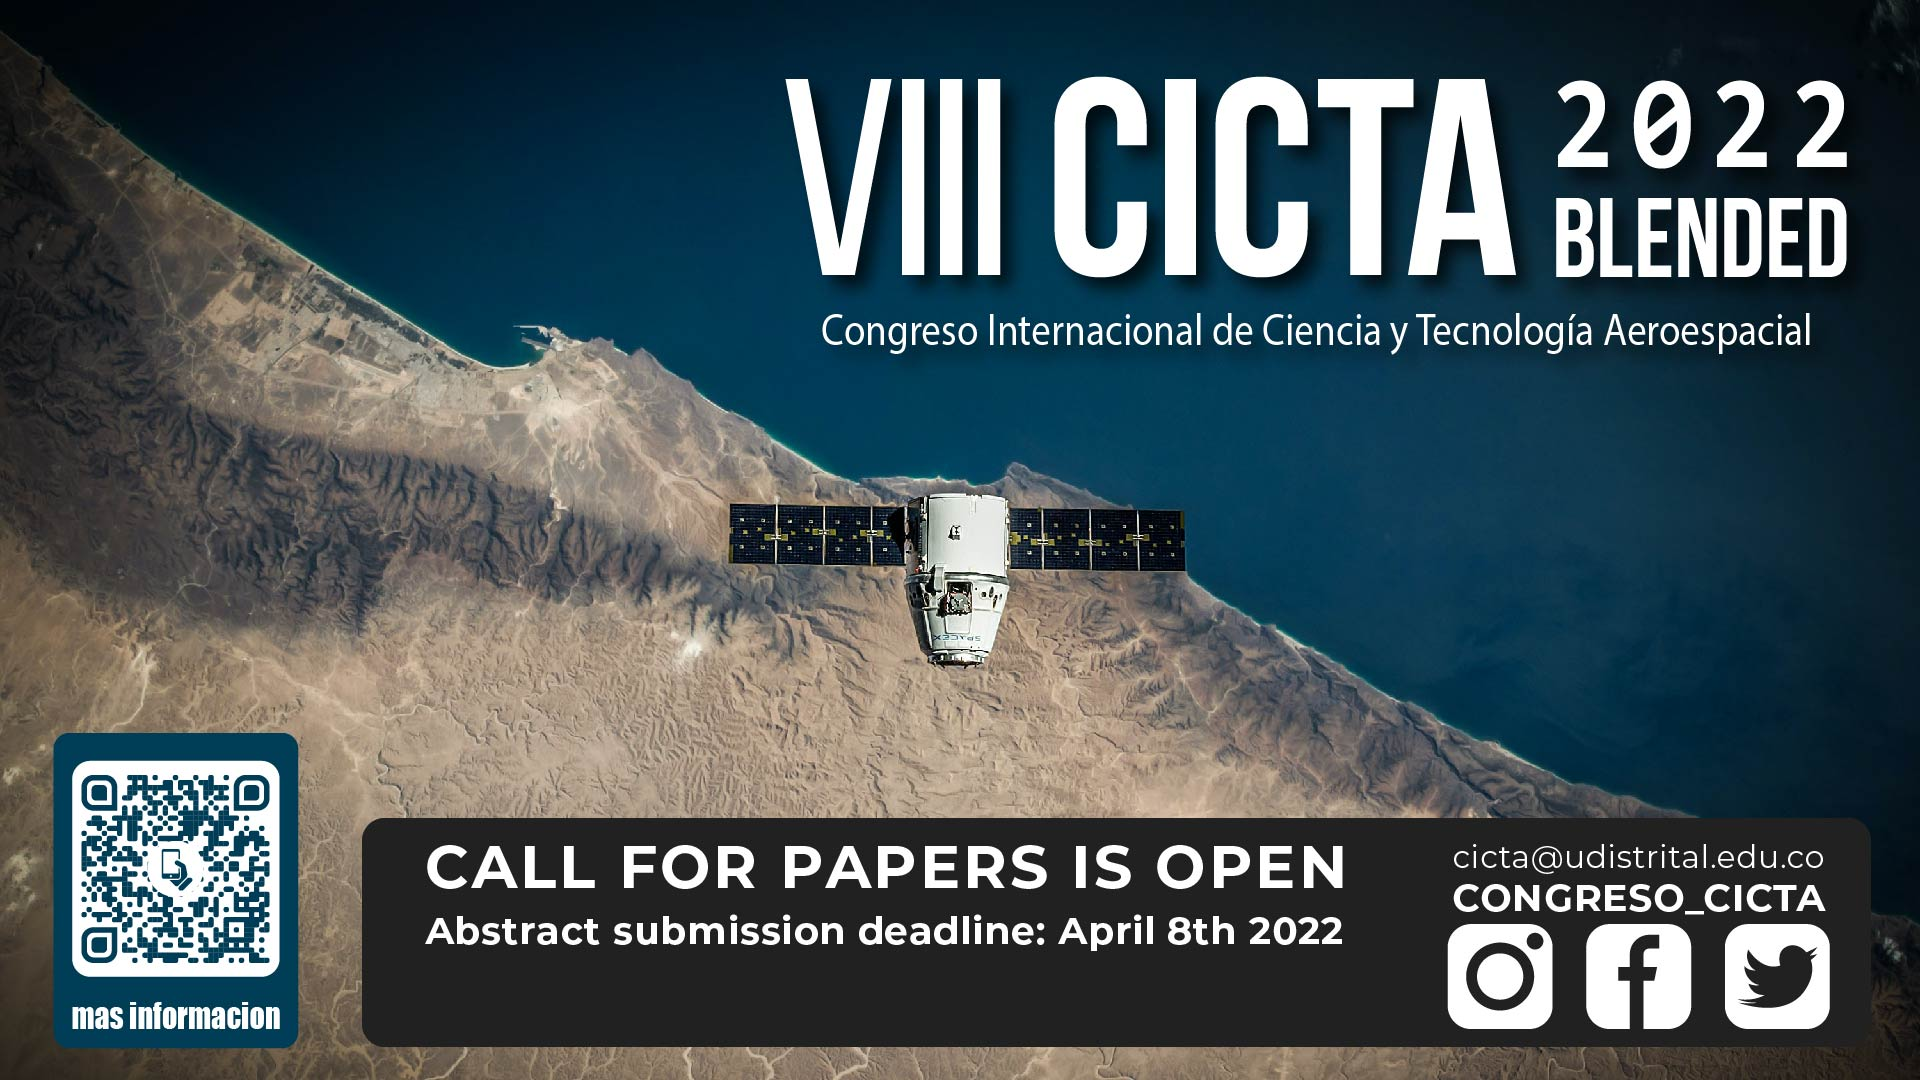
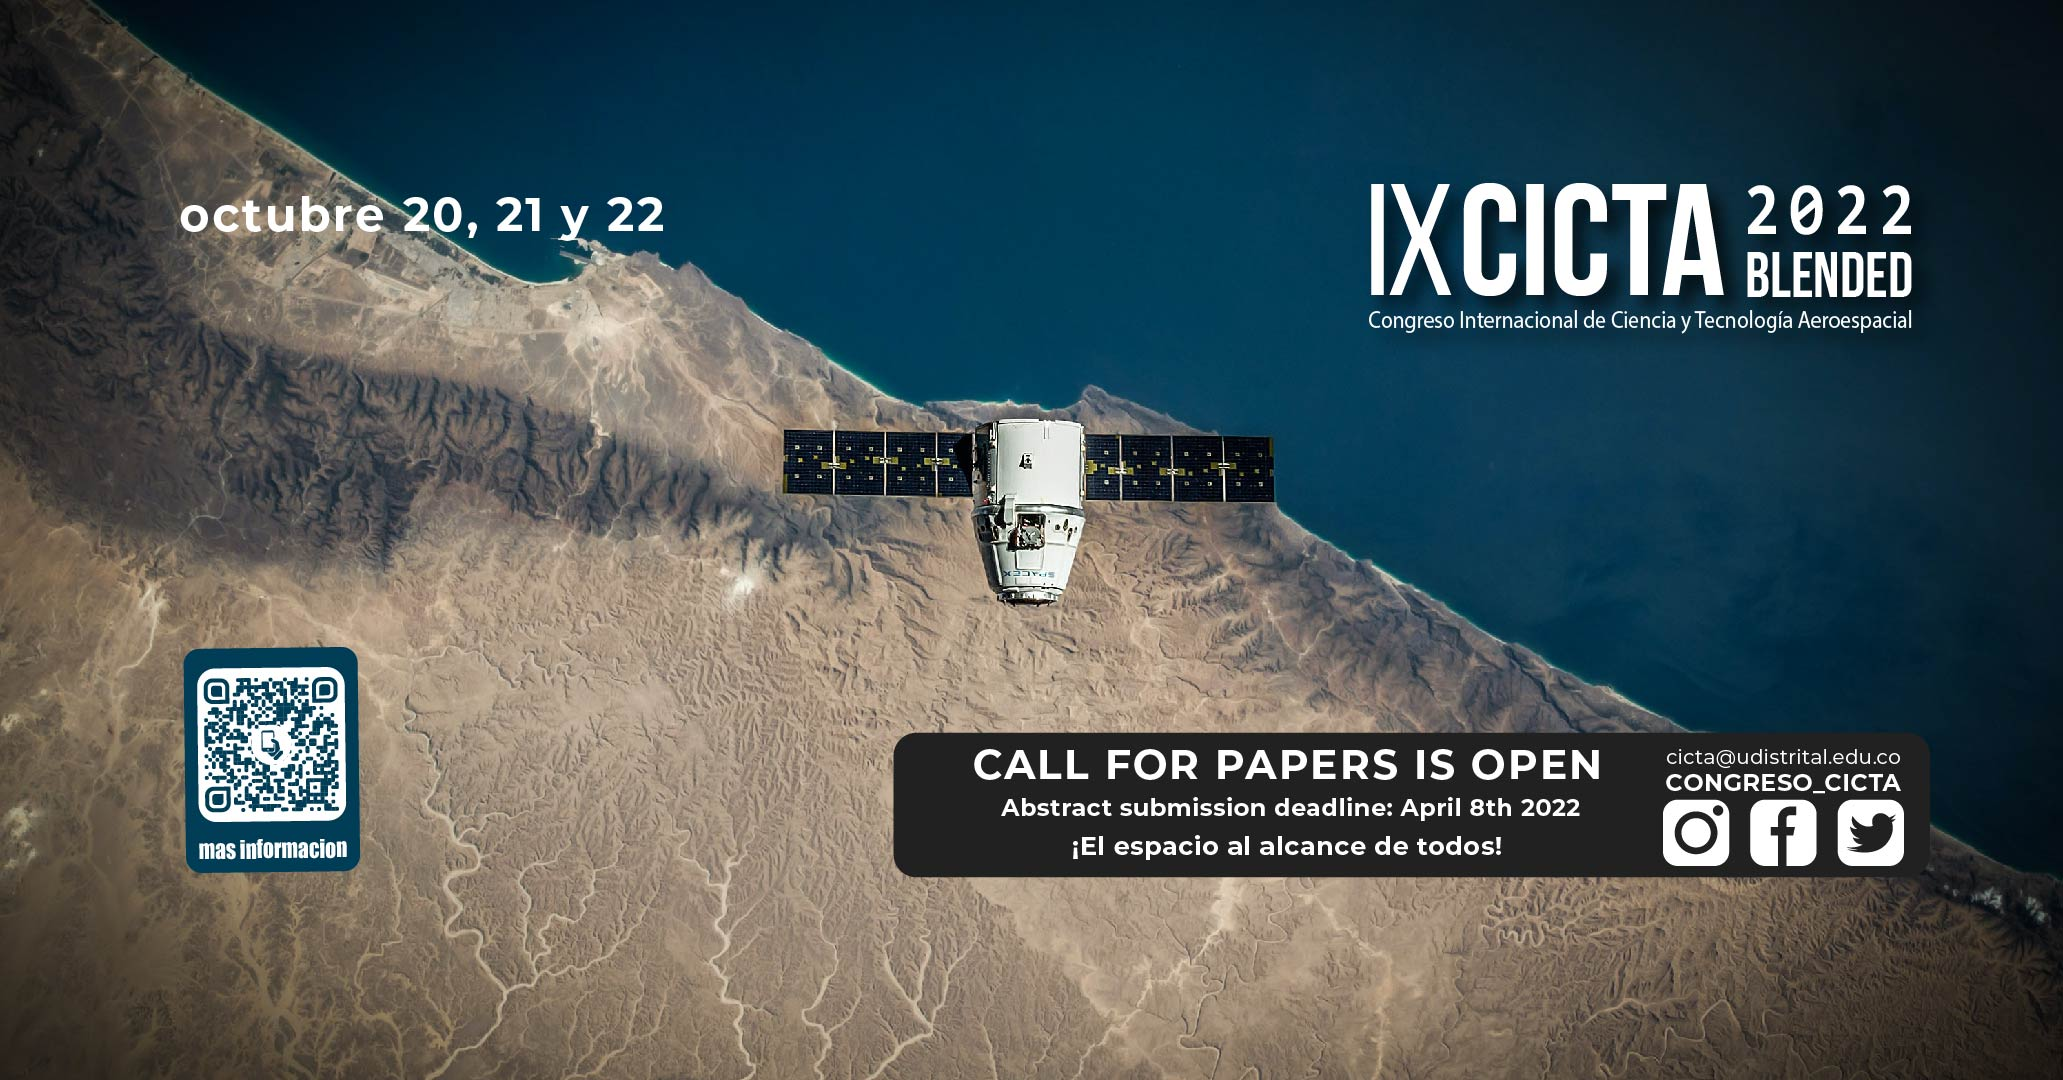
cambio en fechas
cambio en fechas y banner

diff --git a/demo/index.html b/demo/index.html
@@ -51,7 +51,7 @@
               <nav class="site-navigation fixed-top text-right" role="navigation">
                 <ul class="site-menu js-clone-nav mx-auto d-none d-lg-block">
                   <li class="active"><a href="index.html">Inicio</a></li>
-              
+
                   <li><a href="about.html">Acerca de nosotros</a></li>
                   <li><a href="Ponentes.html">Ponentes</a></li>
                   <li><a href="news.html">Noticias</a></li>
@@ -76,7 +76,7 @@
     </div>
     <div data-aos="fade-up" data-aos-delay="500">
       <!--  <div class="col-12 text-center">
-        <a href="Documentos/Cronograma - CICTA 2020.pdf" class="btn-custom" data-aos="fade-up" data-aos-delay="400"><span>Ver
+        <a href="Documentos/Cronograma - CICTA 2022.pdf" class="btn-custom" data-aos="fade-up" data-aos-delay="400"><span>Ver
             cronograma completo</span></a>
       </div>-->
     </div>
@@ -271,7 +271,7 @@
 
 
 
-<!-- 
+    <!-- 
   
     <div class="site-section">
       <div class="container">
@@ -284,7 +284,7 @@
           </div>
 
           <div class="col-lg-5 mt-5 pl-lg-5" data-aos="fade-up" data-aos-delay="100">
-            <p>El congreso cicta 2020 contara participación de conferencistas internacionales de gran
+            <p>El congreso CICTA 2022 contara participación de conferencistas internacionales de gran
               renombre como lo son:</p>
           </div>
         </div>
@@ -360,7 +360,7 @@
             </div>
 
             <div class="col-lg-6 mt-5 pl-lg-5" data-aos="fade-up" data-aos-delay="100">
-              <p>El congreso cicta 2020 contara participación de conferencistas nacionales de gran
+              <p>El congreso CICTA 2022 contara participación de conferencistas nacionales de gran
                 renombre como lo son:</p>
             </div>
           </div>
@@ -383,7 +383,7 @@
       </div> 
       </div>
     </div> -->
-  -->
+    -->
 
     <div class="site-section">
       <div class="container">
@@ -392,7 +392,7 @@
             <div class="col-lg-6" data-aos="fade-up">
 
               <div class="site-section-heading">
-                <h2>Ejes tematicos del congreso</h2>
+                <h2>Ejes temáticos del congreso</h2>
               </div>
             </div>
             <div class="col-lg-6 mt-5 pl-lg-5" data-aos="fade-up" data-aos-delay="100">
@@ -463,15 +463,13 @@
           </style>
           <h1>QUIÉNES SOMOS</h1>
           <p>
-            El VIII Congreso Internacional de Ciencia y Tecnología Aeroespacial (CICTA 2020), es un
-            espacio de intercambio científico sobre temáticas relacionadas a la tecnología aeroespacial
+            El IXCongreso Internacional de Ciencia y Tecnología Aeroespacial (CICTA 2022), es un
+            espacio de intercambio científico sobre temáticas relacionadas con la tecnología aeroespacial
             y su papel protagónico para el avance de la humanidad además de sus implicaciones en diversos
             sectores industriales. Asimismo, como propósito, proporcionar un espacio de discusión en torno a
-            la generación de un programa espacial Colombiano. El congreso se ha consolidado a nivel nacional
-            e internacional mediante la participación activa de investigadores y profesionales desde su
-            creación en el año 2007 por la Universidad Distrital sede Bogotá hasta su última versión que se
-            realizará en unión con la Universidad Distrital Francisco José de Caldas y la Universidad
-            Industrial de Santander la cual será el organizador y epicentro de encuentro científico
+            la generación de un programa espacial Colombiano. El congreso se ha consolidado a nivel nacional e
+            internacional mediante la participación activa de investigadores y profesionales, desde su creación en el
+            año 2007 por la Universidad Distrital sede Bogotá hasta su última versión.
 
           </p>
 
@@ -556,10 +554,10 @@
               de ciencia y tecnología en amplios campos de conocimiento, también a su experiencia en la realización de
               eventos internacionales quiere brindar la apertura de un espacio científico a través de la realización
               del
-              Congreso Internacional de Ciencia y Tecnología Aeroespacial CICTA 2020</p>
+              Congreso Internacional de Ciencia y Tecnología Aeroespacial CICTA 2022</p>
           </div>
           <div class="col-md-3 ml-auto">
-            <h2 class="footer-heading text-uppercase mb-4">Acceso rapido </h2>
+            <h2 class="footer-heading text-uppercase mb-4">Acceso rápido </h2>
             <ul class="list-unstyled">
               <li><a href="index.html">Inicio</a></li>
               <li><a href="about.html">Acerca de nosotros</a></li>

diff --git a/demo/about.html b/demo/about.html
@@ -42,7 +42,7 @@
             <nav class="site-navigation fixed-top text-right" role="navigation">
               <ul class="site-menu js-clone-nav mx-auto d-none d-lg-block">
                 <li><a href="index.html">Inicio</a></li>
-             
+
                 <li class="active"><a href="about.html">Acerca de nosotros</a></li>
                 <li><a href="Ponentes.html">Ponentes</a></li>
                 <li><a href="news.html">Noticias</a></li>
@@ -87,7 +87,7 @@
             acudiendo a su experiencia en investigación y desarrollo de ciencia y tecnología en amplios campos de
             conocimiento, también a su experiencia en la realización de eventos internacionales quiere brindar la
             apertura de un espacio científico a través de la realización del Congreso Internacional de Ciencia y
-            Tecnología Aeroespacial CICTA 2020 en su octava versión, lo que ubica a la Universidad como pionera en
+            Tecnología Aeroespacial CICTA 2022 en su octava versión, lo que ubica a la Universidad como pionera en
             ofrecer estos eventos en el país.</p>
           <p>Nuestra principal ambición es que el evento tenga tal trascendencia a nivel nacional e internacional y que
             se institucionalice como evento periódico logrando que las siguientes versiones sean organizadas de acuerdo
@@ -111,15 +111,13 @@
 
               <div class="col-lg-12 mt-10 pl-lg-5" data-aos="fade-up" data-aos-delay="200">
                 <p>
-                  El VIII Congreso Internacional de Ciencia y Tecnología Aeroespacial (CICTA 2020), es un
-                  espacio de intercambio científico sobre temáticas relacionadas a la tecnología aeroespacial
+                  El IXCongreso Internacional de Ciencia y Tecnología Aeroespacial (CICTA 2022), es un
+                  espacio de intercambio científico sobre temáticas relacionadas con la tecnología aeroespacial
                   y su papel protagónico para el avance de la humanidad además de sus implicaciones en diversos
                   sectores industriales. Asimismo, como propósito, proporcionar un espacio de discusión en torno a
-                  la generación de un programa espacial Colombiano. El congreso se ha consolidado a nivel nacional
-                  e internacional mediante la participación activa de investigadores y profesionales desde su
-                  creación en el año 2007 por la Universidad Distrital sede Bogotá hasta su última versión que se
-                  realizará en junto con la Universidad Industrial de Santander la cual será el epicentro
-                  de encuentro científico
+                  la generación de un programa espacial Colombiano. El congreso se ha consolidado a nivel nacional e
+                  internacional mediante la participación activa de investigadores y profesionales, desde su creación en
+                  el año 2007 por la Universidad Distrital sede Bogotá hasta su última versión.
                 </p>
               </div>
             </div>
@@ -247,10 +245,10 @@
           <p>la Universidad Distrital Francisco José de Caldas acudiendo a su experiencia en investigación y desarrollo
             de ciencia y tecnología en amplios campos de conocimiento, también a su experiencia en la realización de
             eventos internacionales quiere brindar la apertura de un espacio científico a través de la realización del
-            Congreso Internacional de Ciencia y Tecnología Aeroespacial CICTA 2020</p>
+            Congreso Internacional de Ciencia y Tecnología Aeroespacial CICTA 2022</p>
         </div>
         <div class="col-md-3 ml-auto">
-          <h2 class="footer-heading text-uppercase mb-4">Acceso rapido </h2>
+          <h2 class="footer-heading text-uppercase mb-4">Acceso rápido </h2>
           <ul class="list-unstyled">
             <li><a href="index.html">Inicio</a></li>
             <li><a href="about.html">Acerca de nosotros</a></li>

diff --git a/demo/Ponentes.html b/demo/Ponentes.html
@@ -179,7 +179,7 @@
             Lugar de residencia e institución (9 pt), correo electrónico(8 pt) y el contenido del
             resumen en fuente Arial 12 pt con interlineado sencillo y justificado. Enviar junto con los datos del
             autor (Nombre completo, institución, dirección de institución, teléfono, email) usando el (<a
-            href="Documentos/Formato envío abstract CICTA 2020.doc">Formato para el envio de
+            href="Documentos/Formato envío abstract CICTA 2022.doc">Formato para el envio de
             abstract</a>)</li> al correo
             cicta@udistrital.edu.co
           </P>
@@ -197,7 +197,7 @@
         <h2>Primera fase</h2>
         <li>Envío de Abstract modalidad ponencia o Póster al coreo
           cicta@udistrital.edu.co: Abril 8 2022, a las 23:55 horas (<a
-            href="Documentos/Formato envío abstract CICTA 2020.doc">Formato para el envio de
+            href="Documentos/Formato envío abstract CICTA 2022.doc">Formato para el envio de
             abstract</a>)</li>
 
         <li>Notificación de aceptación de resúmenes: Abril 15 2022, a las 23:55 horas </li>
@@ -216,7 +216,7 @@
         <h2>Segunda fase</h2>
         <li>Envío de Abstract modalidad ponencia o Póster al coreo
           cicta@udistrital.edu.co: hasta el 15 Abril 2022 23h 59 UTC-05:00 (<a
-            href="Documentos/Formato envío abstract CICTA 2020.doc">Formato para el envio de
+            href="Documentos/Formato envío abstract CICTA 2022.doc">Formato para el envio de
             abstract</a>)</li>
 
         <li>Notificación de aceptación de resúmenes: noviembre 8 de 2020</li>
@@ -235,7 +235,7 @@
         <div class="row mb-5">
           <div class="col-lg-6" data-aos="fade-up">
             <div class="site-section-heading">
-              <h2>Ejes tematicos del congreso</h2>
+              <h2>Ejes temáticos del congreso</h2>
             </div>
           </div>
           <div class="col-lg-6 mt-5 pl-lg-5" data-aos="fade-up" data-aos-delay="100">
@@ -325,10 +325,10 @@
             desarrollo
             de ciencia y tecnología en amplios campos de conocimiento, también a su experiencia en la realización de
             eventos internacionales quiere brindar la apertura de un espacio científico a través de la realización del
-            Congreso Internacional de Ciencia y Tecnología Aeroespacial CICTA 2020</p>
+            Congreso Internacional de Ciencia y Tecnología Aeroespacial CICTA 2022</p>
         </div>
         <div class="col-md-3 ml-auto">
-          <h2 class="footer-heading text-uppercase mb-4">Acceso rapido </h2>
+          <h2 class="footer-heading text-uppercase mb-4">Acceso rápido </h2>
           <ul class="list-unstyled">
             <li><a href="index.html">Inicio</a></li>
             <li><a href="about.html">Acerca de nosotros</a></li>

diff --git a/demo/news.html b/demo/news.html
@@ -79,7 +79,7 @@
               <!-- <div class="mr-2"><img src="" alt="Image" class="img-fluid"></div> -->
               <div><span>Por; <a href="Comites.html">Comite organizador</a></span> &mdash; <span>Julio. 31, 2020</span></div> 
             </div>
-            <p>tenemos el gusto de lanzar el congreso cicta 2020
+            <p>tenemos el gusto de lanzar el congreso CICTA 2022
           </div>
           <!--           
           <div class="col-md-6 col-lg-4 mb-5 mb-lg-5 blog-entry"  data-aos="fade-up" data-aos-delay="200">
@@ -91,7 +91,7 @@
               <div class="mr-2"><img src="" alt="Image" class="img-fluid"></div>
               <div><span>Por; <a href="Comites.html">Comite organizador</a></span> &mdash; <span>Julio. 31, 2020</span></div> 
             </div>
-            <p>tenemos el gusto de lanzar el congreso cicta 2020
+            <p>tenemos el gusto de lanzar el congreso CICTA 2022
           </div>
 
           <div class="col-md-6 col-lg-4 mb-5 mb-lg-5 blog-entry"  data-aos="fade-up" data-aos-delay="200">
@@ -103,7 +103,7 @@
               <div class="mr-2"><img src="" alt="Image" class="img-fluid"></div>
               <div><span>Por; <a href="Comites.html">Comite organizador</a></span> &mdash; <span>Julio. 31, 2020</span></div> 
             </div>
-            <p>tenemos el gusto de lanzar el congreso cicta 2020
+            <p>tenemos el gusto de lanzar el congreso CICTA 2022
           </div> -->
 
          
@@ -174,10 +174,10 @@
             <p>la Universidad Distrital Francisco José de Caldas acudiendo a su experiencia en investigación y desarrollo
               de ciencia y tecnología en amplios campos de conocimiento, también a su experiencia en la realización de
               eventos internacionales quiere brindar la apertura de un espacio científico a través de la realización del
-              Congreso Internacional de Ciencia y Tecnología Aeroespacial CICTA 2020</p>
+              Congreso Internacional de Ciencia y Tecnología Aeroespacial CICTA 2022</p>
           </div>
           <div class="col-md-3 ml-auto">
-            <h2 class="footer-heading text-uppercase mb-4">Acceso rapido </h2>
+            <h2 class="footer-heading text-uppercase mb-4">Acceso rápido </h2>
             <ul class="list-unstyled">
               <li><a href="index.html">Inicio</a></li>
               <li><a href="about.html">Acerca de nosotros</a></li>

diff --git a/demo/Comites.html b/demo/Comites.html
@@ -42,7 +42,6 @@
             <nav class="site-navigation fixed-top text-right" role="navigation">
               <ul class="site-menu js-clone-nav mx-auto d-none d-lg-block">
                 <li><a href="index.html"> Inicio</a></li>
-           
                 <li><a href="about.html">Acerca de nosotros</a></li>
                 <li><a href="Ponentes.html">Ponentes</a></li>
                 <li><a href="news.html">Noticias</a></li>
@@ -242,10 +241,10 @@
           <p>la Universidad Distrital Francisco José de Caldas acudiendo a su experiencia en investigación y desarrollo
             de ciencia y tecnología en amplios campos de conocimiento, también a su experiencia en la realización de
             eventos internacionales quiere brindar la apertura de un espacio científico a través de la realización del
-            Congreso Internacional de Ciencia y Tecnología Aeroespacial CICTA 2020</p>
+            Congreso Internacional de Ciencia y Tecnología Aeroespacial CICTA 2022</p>
         </div>
         <div class="col-md-3 ml-auto">
-          <h2 class="footer-heading text-uppercase mb-4">Acceso rapido </h2>
+          <h2 class="footer-heading text-uppercase mb-4">Acceso rápido </h2>
           <ul class="list-unstyled">
             <li><a href="index.html">Inicio</a></li>
             <li><a href="about.html">Acerca de nosotros</a></li>

diff --git a/demo/cictaKIDS/indexKids.html b/demo/cictaKIDS/indexKids.html
@@ -300,7 +300,7 @@
   									<p>Al remitir su proyecto acepta la publicación de éste en las memorias del evento.
                        Adicionalmente,por su  participación  en  el CICTA  KIDS recibirán un  certificado
                        como joven ponente y  un certificado para la institución como promotorde la innovación
-                       aeroespacial del VIII Congreso Internacional de Ciencia y Tecnología Aeroespacial, CICTA 2020.</p>
+                       aeroespacial del IXCongreso Internacional de Ciencia y Tecnología Aeroespacial, CICTA 2022.</p>
 
   								</div>
   								<!-- /features content -->
@@ -723,7 +723,7 @@
 								<img src="img/cictak.png" width="10%" height="5% alt="Logo cictakids" />
 							</a>
               <p>--------------------------------------------------------- </p>
-              <p> Modificado  por  <a hre= #our-team> Webmaster CICTA 2020 Team </a>. Copyright &copy; 2020. All Rights Reserved.</p>
+              <p> Modificado  por  <a hre= #our-team> Webmaster CICTA 2022 Team </a>. Copyright &copy; 2020. All Rights Reserved.</p>
 						</div>
 						<!-- /copyright -->
 

diff --git a/demo/inscripciones.html b/demo/inscripciones.html
@@ -264,10 +264,10 @@
             <p>la Universidad Distrital Francisco José de Caldas acudiendo a su experiencia en investigación y desarrollo
               de ciencia y tecnología en amplios campos de conocimiento, también a su experiencia en la realización de
               eventos internacionales quiere brindar la apertura de un espacio científico a través de la realización del
-              Congreso Internacional de Ciencia y Tecnología Aeroespacial CICTA 2020</p>
+              Congreso Internacional de Ciencia y Tecnología Aeroespacial CICTA 2022</p>
           </div>
           <div class="col-md-3 ml-auto">
-            <h2 class="footer-heading text-uppercase mb-4">Acceso rapido </h2>
+            <h2 class="footer-heading text-uppercase mb-4">Acceso rápido </h2>
             <ul class="list-unstyled">
               <li><a href="index.html">Inicio</a></li>
               <li><a href="about.html">Acerca de nosotros</a></li>

diff --git a/demo/Conferencistas.html b/demo/Conferencistas.html
@@ -139,10 +139,10 @@
           <p>la Universidad Distrital Francisco José de Caldas acudiendo a su experiencia en investigación y desarrollo
             de ciencia y tecnología en amplios campos de conocimiento, también a su experiencia en la realización de
             eventos internacionales quiere brindar la apertura de un espacio científico a través de la realización del
-            Congreso Internacional de Ciencia y Tecnología Aeroespacial CICTA 2020</p>
+            Congreso Internacional de Ciencia y Tecnología Aeroespacial CICTA 2022</p>
         </div>
         <div class="col-md-3 ml-auto">
-          <h2 class="footer-heading text-uppercase mb-4">Acceso rapido </h2>
+          <h2 class="footer-heading text-uppercase mb-4">Acceso rápido </h2>
           <ul class="list-unstyled">
             <li><a href="index.html">Inicio</a></li>
             <li><a href="about.html">Acerca de nosotros</a></li>

diff --git a/demo/congreso.html b/demo/congreso.html
@@ -476,10 +476,10 @@
           <p>la Universidad Distrital Francisco José de Caldas acudiendo a su experiencia en investigación y desarrollo
             de ciencia y tecnología en amplios campos de conocimiento, también a su experiencia en la realización de
             eventos internacionales quiere brindar la apertura de un espacio científico a través de la realización del
-            Congreso Internacional de Ciencia y Tecnología Aeroespacial CICTA 2020</p>
+            Congreso Internacional de Ciencia y Tecnología Aeroespacial CICTA 2022</p>
         </div>
         <div class="col-md-3 ml-auto">
-          <h2 class="footer-heading text-uppercase mb-4">Acceso rapido </h2>
+          <h2 class="footer-heading text-uppercase mb-4">Acceso rápido </h2>
           <ul class="list-unstyled">
             <li><a href="index.html">Inicio</a></li>
             <li><a href="about.html">Acerca de nosotros</a></li>

diff --git a/demo/contacto.html b/demo/contacto.html
@@ -311,10 +311,10 @@
           <p>la Universidad Distrital Francisco José de Caldas acudiendo a su experiencia en investigación y desarrollo
             de ciencia y tecnología en amplios campos de conocimiento, también a su experiencia en la realización de
             eventos internacionales quiere brindar la apertura de un espacio científico a través de la realización del
-            Congreso Internacional de Ciencia y Tecnología Aeroespacial CICTA 2020</p>
+            Congreso Internacional de Ciencia y Tecnología Aeroespacial CICTA 2022</p>
         </div>
         <div class="col-md-3 ml-auto">
-          <h2 class="footer-heading text-uppercase mb-4">Acceso rapido </h2>
+          <h2 class="footer-heading text-uppercase mb-4">Acceso rápido </h2>
           <ul class="list-unstyled">
             <li><a href="index.html">Inicio</a></li>
             <li><a href="about.html">Acerca de nosotros</a></li>
